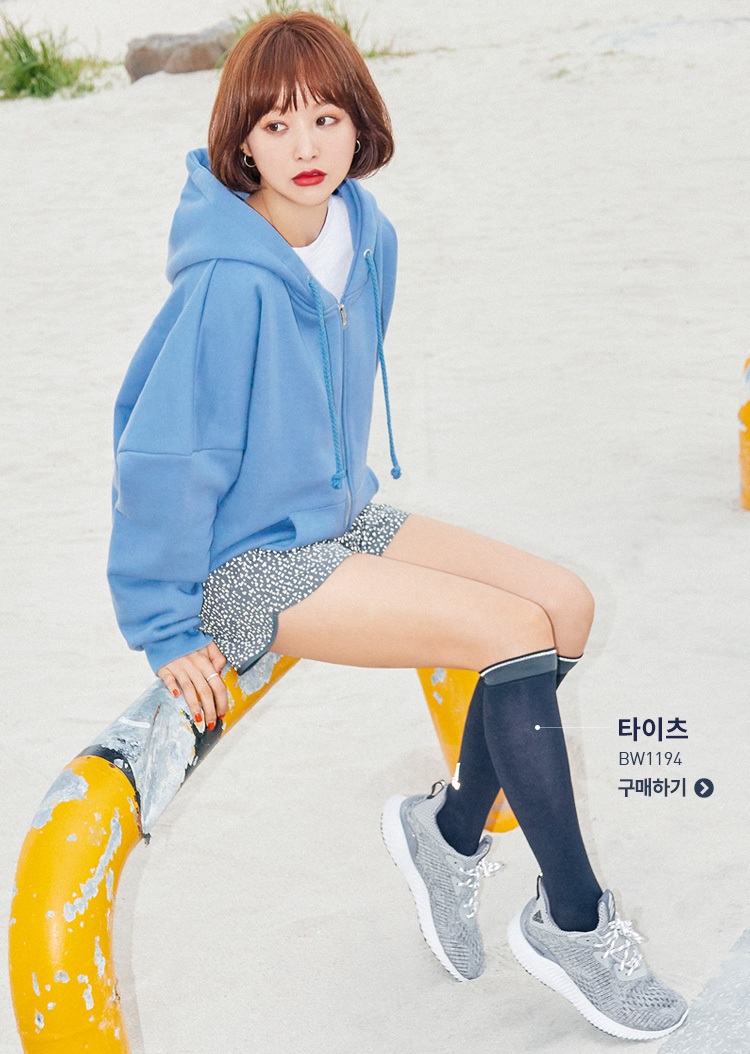
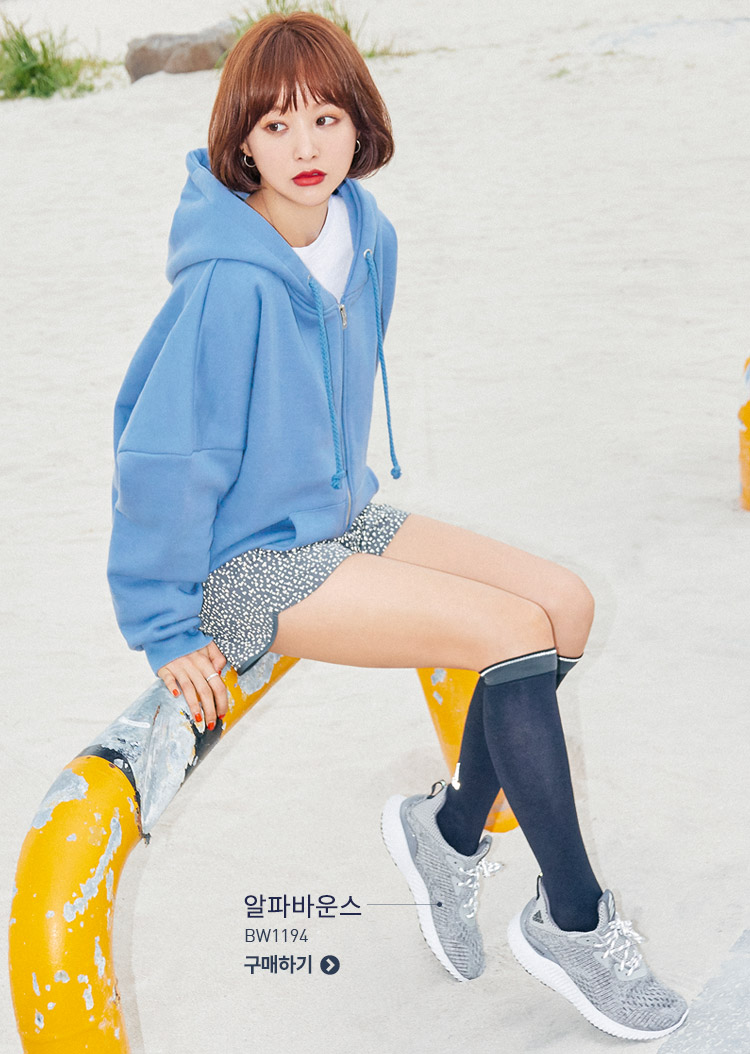
임블리 3차 수정 / 2차 배너 추가

Changed region(s): [[0.3067, 0.8501, 0.4907, 0.9412], [0.828, 0.6679, 0.9507, 0.759]]

diff --git a/app/html/adidas/event/originals_imvely/171018/build/index.html b/app/html/adidas/event/originals_imvely/171018/build/index.html
@@ -252,7 +252,7 @@
                                 </li>
                                 <li>
                                     <img src="/images/adidas/event/originals_imvely/171018/style_cut2_2.jpg" alt="">
-                                    <a href="http://m.adidas.co.kr/MO/Product/prdDispBas.action?prodCD=BW1194" class="link" style="width: 18%;height: 11%;top: 66%;left: 80%;">타이츠</a>
+                                    <a href="http://m.adidas.co.kr/MO/Product/prdDispBas.action?prodCD=BW1194" class="link" style="width: 18%;height: 11%;top: 83%;left: 31%;">타이츠</a>
                                 </li>
                                 <li>
                                     <img src="/images/adidas/event/originals_imvely/171018/style_cut2_3.jpg" alt="">

diff --git a/app/html/adidas/event/originals_imvely/171018/index.html b/app/html/adidas/event/originals_imvely/171018/index.html
@@ -250,7 +250,7 @@
                                 </li>
                                 <li>
                                     <img src="/images/adidas/event/originals_imvely/171018/style_cut2_2.jpg" alt="">
-                                    <a href="http://m.adidas.co.kr/MO/Product/prdDispBas.action?prodCD=BW1194" class="link" style="width: 18%;height: 11%;top: 66%;left: 80%;">타이츠</a>
+                                    <a href="http://m.adidas.co.kr/MO/Product/prdDispBas.action?prodCD=BW1194" class="link" style="width: 18%;height: 11%;top: 83%;left: 31%;">타이츠</a>
                                 </li>
                                 <li>
                                     <img src="/images/adidas/event/originals_imvely/171018/style_cut2_3.jpg" alt="">

diff --git a/app/html/adidas/event/originals_imvely/build/index.html b/app/html/adidas/event/originals_imvely/build/index.html
@@ -728,8 +728,8 @@
                     </ul>
                 </div>
 
-                <div class="bottom">
-                    <img src="http://imagem.adidas.co.kr/images/adidas/event/originals_imvely/logo.jpg" alt="">
+                <div class="bottom" style="padding:1.5rem;">
+                    <a href="http://m.adidas.co.kr/MO/Event/evtNotice.action?pn=adidas_imvely_3rd"><img src="http://imagem.adidas.co.kr/images/adidas/event/originals_imvely/banner_bottom.jpg" alt=""></a>
                 </div>
 
            </div>

diff --git a/app/html/adidas/event/originals_imvely/index.html b/app/html/adidas/event/originals_imvely/index.html
@@ -726,8 +726,8 @@
                     </ul>
                 </div>
 
-                <div class="bottom">
-                    <img src="http://imagem.adidas.co.kr/images/adidas/event/originals_imvely/logo.jpg" alt="">
+                <div class="bottom" style="padding:1.5rem;">
+                    <a href="http://m.adidas.co.kr/MO/Event/evtNotice.action?pn=adidas_imvely_3rd"><img src="http://imagem.adidas.co.kr/images/adidas/event/originals_imvely/banner_bottom.jpg" alt=""></a>
                 </div>
 
            </div>
